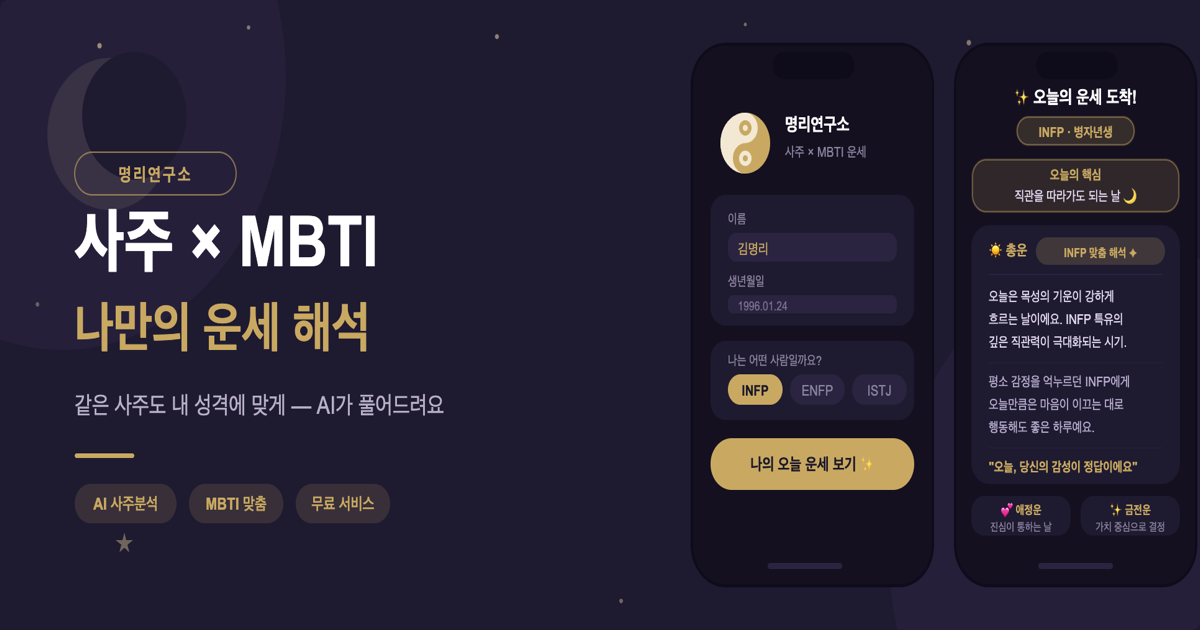
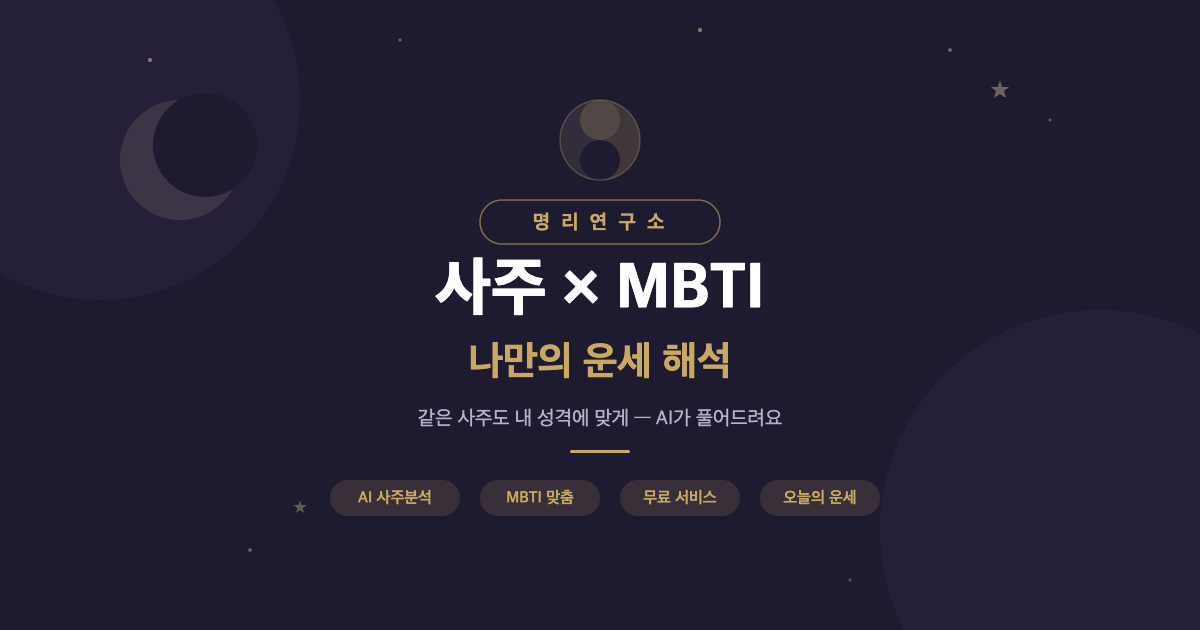
중앙 정렬 썸네일 + query parameter 방식 공유 링크
- og-image.png를 중앙 정렬 디자인으로 교체 (크롭에 강함)
- 공유 URL을 해시(#) → query parameter(?s=)로 변경
- 카카오 SDK 4002 에러 해결 (해시 프래그먼트 제거)
- 하위호환: 기존 해시 URL도 여전히 지원

diff --git a/src/components/ShareSheet.tsx b/src/components/ShareSheet.tsx
@@ -410,36 +410,33 @@ export function ShareSheet({ result, userName, highlight, onClose }: Props) {
         Kakao.init(key);
       }
       const kakaoBaseUrl = 'https://myeongri-lab.vercel.app';
-      // 카카오 SDK는 해시 프래그먼트가 포함된 URL을 거부(4002 에러)
-      // → 기본 URL만 사용하고, description에 운세 내용을 상세히 표시
+      // query parameter 방식 공유 URL (해시는 카카오 SDK 4002 에러)
+      const kakaoShareUrl = highlight
+        ? buildShareUrl(userName, highlight)
+        : kakaoBaseUrl;
       const score = result.score;
       const desc = [
         `🎯 오늘의 운세 점수: ${score}점`,
         `"${result.summaryLine}"`,
-        '',
-        `☀ 총운: ${result.overall.slice(0, 40)}...`,
-        `💕 애정운: ${result.love.slice(0, 40)}...`,
-        '',
         `🍀 행운색: ${result.lucky.color} | 🔢 ${result.lucky.number}`,
-        `🧭 ${result.lucky.direction} | 🍀 ${result.lucky.item}`,
       ].join('\n');
       Kakao.Share.sendDefault({
         objectType: 'feed',
         content: {
           title: `✨ ${userName}님의 오늘 운세`,
           description: desc,
-          imageUrl: `${kakaoBaseUrl}/og-image.png?v=2`,
+          imageUrl: `${kakaoBaseUrl}/og-image.png?v=3`,
           link: {
-            mobileWebUrl: kakaoBaseUrl,
-            webUrl: kakaoBaseUrl,
+            mobileWebUrl: kakaoShareUrl,
+            webUrl: kakaoShareUrl,
           },
         },
         buttons: [
           {
-            title: '나도 운세 보기 🔮',
+            title: `${userName}님의 운세 보기 🔮`,
             link: {
-              mobileWebUrl: kakaoBaseUrl,
-              webUrl: kakaoBaseUrl,
+              mobileWebUrl: kakaoShareUrl,
+              webUrl: kakaoShareUrl,
             },
           },
         ],

diff --git a/src/App.tsx b/src/App.tsx
@@ -11,11 +11,16 @@ import { SharedResultView } from './screens/SharedResultView';
 import { decodeShareData, sharedDataToHighlight } from './utils/shareUrl';
 import type { FortuneTexts } from './utils/shareUrl';
 
-// URL 해시에서 공유 데이터 확인 (#s=base64data)
+// URL에서 공유 데이터 확인 (?s=base64data 또는 #s=base64data)
 function getSharedData(): { userName: string; highlight: FortuneHighlight; texts: FortuneTexts } | null {
-  const hash = window.location.hash;
-  if (!hash.startsWith('#s=')) return null;
-  const encoded = hash.slice(3); // '#s=' 제거
+  // query parameter 우선 확인
+  const params = new URLSearchParams(window.location.search);
+  let encoded = params.get('s');
+  // 하위호환: 해시 프래그먼트도 확인
+  if (!encoded) {
+    const hash = window.location.hash;
+    if (hash.startsWith('#s=')) encoded = hash.slice(3);
+  }
   if (!encoded) return null;
   const data = decodeShareData(encoded);
   if (!data) return null;

diff --git a/src/utils/shareUrl.ts b/src/utils/shareUrl.ts
@@ -74,8 +74,8 @@ export function decodeShareData(encoded: string): SharedFortuneData | null {
 
 export function buildShareUrl(userName: string, highlight: FortuneHighlight, texts?: FortuneTexts): string {
   const encoded = encodeShareData(userName, highlight, texts);
-  // 해시 프래그먼트 사용 — 카카오 SDK 패킷/도메인 검증 우회
-  return `https://myeongri-lab.vercel.app#s=${encoded}`;
+  // query parameter 사용 — 카카오 SDK가 해시(#) URL을 거부하므로
+  return `https://myeongri-lab.vercel.app?s=${encoded}`;
 }
 
 export function sharedDataToHighlight(data: SharedFortuneData): {
